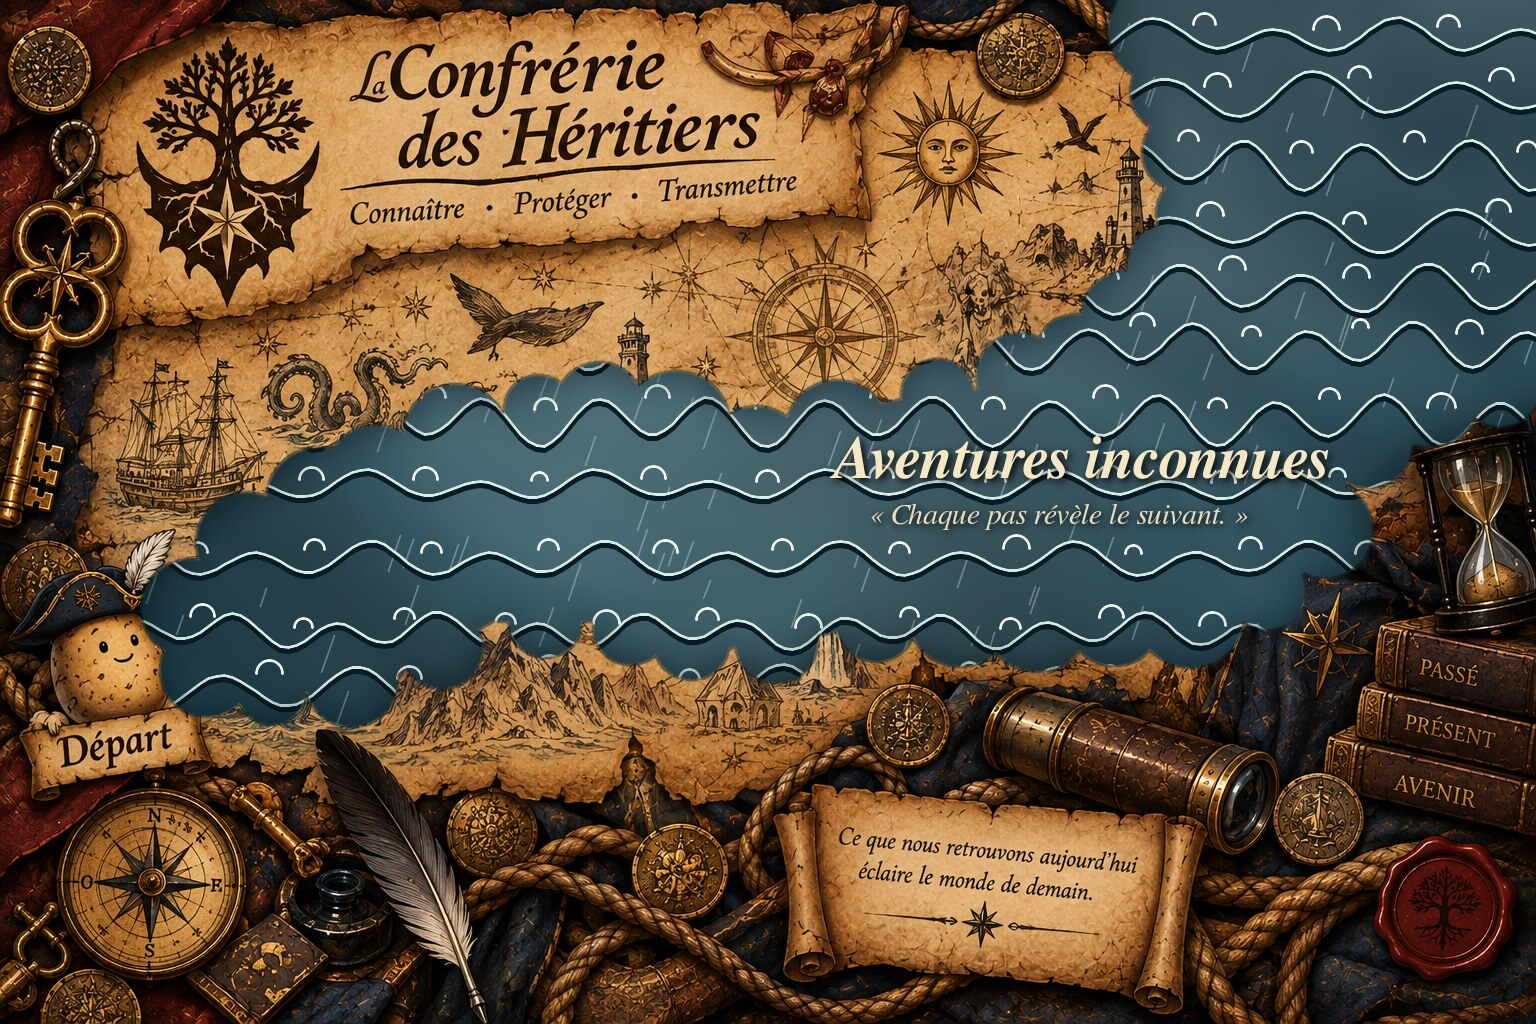
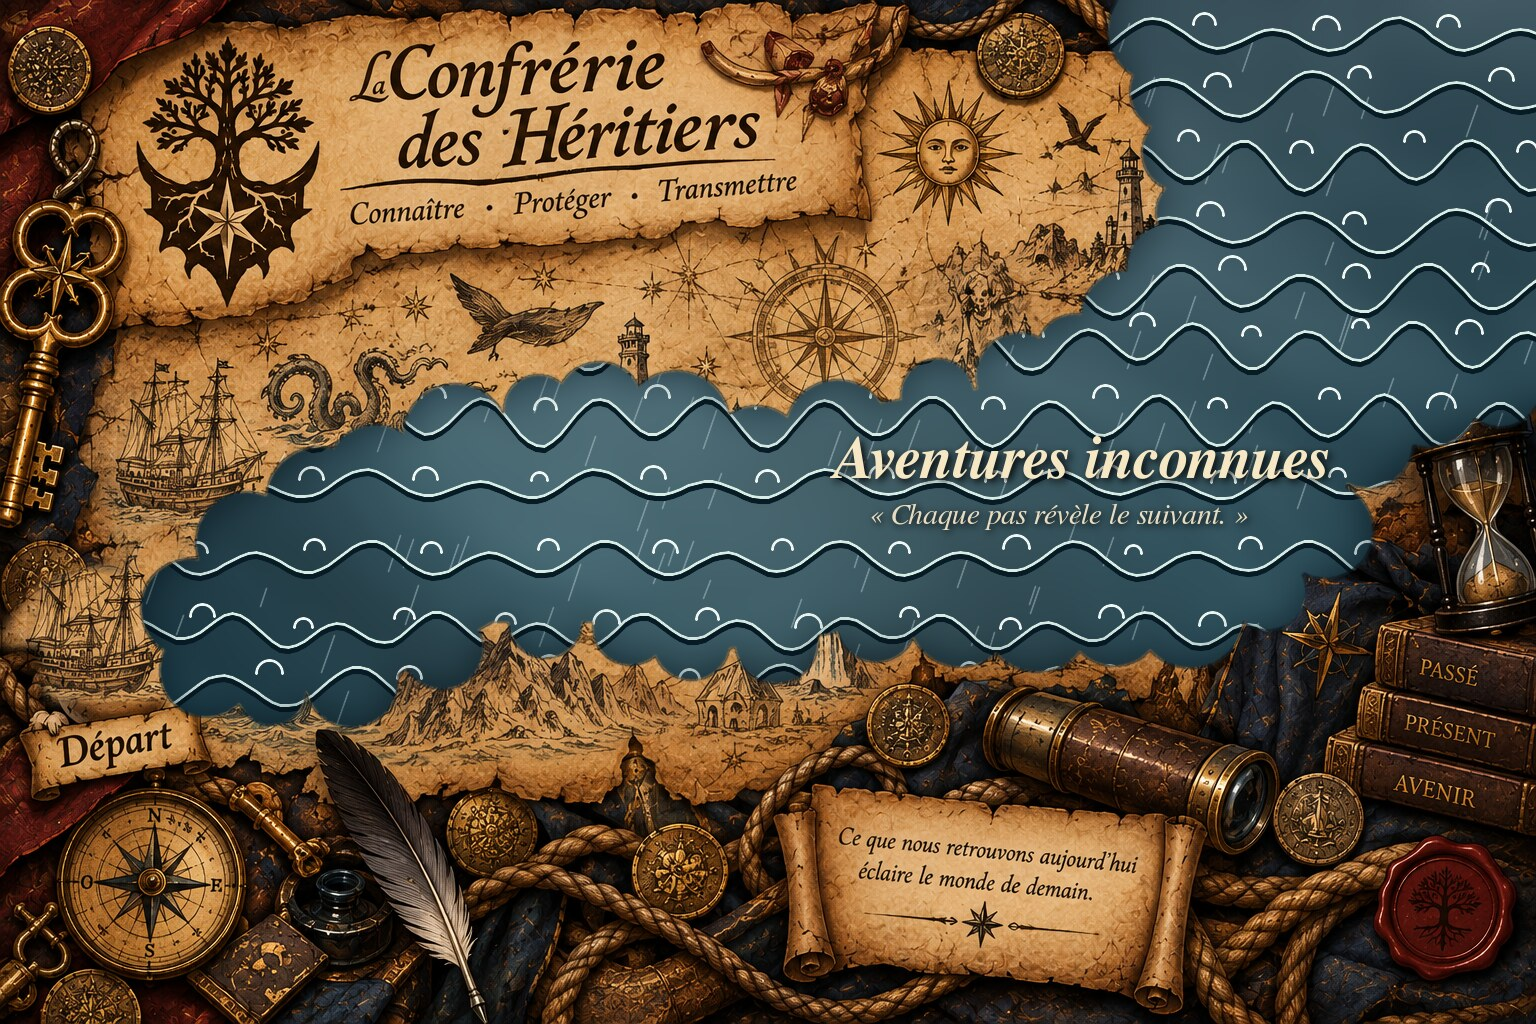
feat(quetes): la patate navigue sur le bateau de la Confrérie
- médaillon du bateau de la Confrérie avec la patate sur le pont
- le bateau part du Départ puis navigue jusqu'à la dernière quête
  dévoilée, en se balançant sur les vagues
- la patate est retirée du dessin de la carte (remplacée par la gravure
  d'un navire) pour ne pas apparaître deux fois
- le bateau passe sous les anneaux pour ne pas gêner le toucher

Claude-Session: https://claude.ai/code/session_01LK9bQxRaFjmebgi5wGVUS1

Changed region(s): [[0.0, 0.5, 0.125, 0.6875]]

diff --git a/frontend/app/(tabs)/quetes.tsx b/frontend/app/(tabs)/quetes.tsx
@@ -29,7 +29,16 @@ const FORGERON_EXPLAINED_IMAGE = require('../../quêtes/toutes les quêtes/La_Fo
 
 // Carte d'origine, sans la tempête : visible à travers la tempête autour
 // des quêtes dévoilées
-const CLEAR_MAP_IMAGE = require('../../quêtes/image de quêtes.png');
+const CLEAR_MAP_IMAGE = require('../../quêtes/carte des quêtes - sans tempete.jpg');
+
+// La patate sur le bateau de la Confrérie, dans un médaillon (310 x 260)
+const BOAT_IMAGE = require('../../assets/images/quetes/bateau-patate.png');
+const BOAT_ASPECT = 310 / 260;
+const BOAT_WIDTH = 0.13; // en fraction de la largeur de la carte
+// Port de départ du bateau, avant la première quête
+const BOAT_START = { x: 0.075, y: 0.62 };
+// Place du bateau à côté d'une quête : en bas à gauche de son cercle
+const boatSpot = (quest: { x: number; y: number }) => ({ x: quest.x - 0.04, y: quest.y + 0.14 });
 
 // Mémorise sur l'appareil les quêtes déjà dévoilées
 const seenKey = (number: number) => `quetes.vue.${number}`;
@@ -171,6 +180,67 @@ function StormHole({
   );
 }
 
+// Bateau de la patate : il navigue jusqu'à la dernière quête dévoilée et
+// se balance doucement sur les vagues
+function Boat({
+  mapWidth,
+  mapHeight,
+  spot,
+}: {
+  mapWidth: number;
+  mapHeight: number;
+  spot: { x: number; y: number };
+}) {
+  const width = mapWidth * BOAT_WIDTH;
+  const height = width / BOAT_ASPECT;
+  const targetX = spot.x * mapWidth - width / 2;
+  const targetY = spot.y * mapHeight - height / 2;
+  const position = useRef(new Animated.ValueXY({ x: targetX, y: targetY })).current;
+  const rock = useRef(new Animated.Value(0)).current;
+
+  useEffect(() => {
+    Animated.timing(position, {
+      toValue: { x: targetX, y: targetY },
+      duration: 1600,
+      useNativeDriver: true,
+    }).start();
+  }, [position, targetX, targetY]);
+
+  useEffect(() => {
+    const loop = Animated.loop(
+      Animated.sequence([
+        Animated.timing(rock, { toValue: 1, duration: 1400, useNativeDriver: true }),
+        Animated.timing(rock, { toValue: -1, duration: 1400, useNativeDriver: true }),
+      ])
+    );
+    loop.start();
+    return () => loop.stop();
+  }, [rock]);
+
+  return (
+    <Animated.View
+      pointerEvents="none"
+      testID="quest-boat"
+      style={{
+        position: 'absolute',
+        left: 0,
+        top: 0,
+        width,
+        height,
+        transform: [
+          { translateX: position.x },
+          { translateY: position.y },
+          { rotate: rock.interpolate({ inputRange: [-1, 1], outputRange: ['-4deg', '4deg'] }) },
+        ],
+      }}
+    >
+      <View pointerEvents="none" style={{ width, height }}>
+        <Image source={BOAT_IMAGE} style={{ width, height }} contentFit="contain" />
+      </View>
+    </Animated.View>
+  );
+}
+
 export default function QuetesScreen() {
   const [opened, setOpened] = useState<Quest | null>(null);
   const [mapWidth, setMapWidth] = useState(0);
@@ -193,6 +263,7 @@ export default function QuetesScreen() {
 
   const isRevealed = (quest: Quest) => Boolean(quest.revealed || seen[quest.number]);
   const revealedCount = QUESTS.filter(isRevealed).length;
+  const lastRevealed = [...QUESTS].reverse().find(isRevealed);
 
   // 1er toucher : la quête se dévoile. Ensuite : elle s'ouvre.
   const open = (quest: Quest) => {
@@ -238,6 +309,15 @@ export default function QuetesScreen() {
               />
             ))}
 
+          {/* Bateau de la patate, sous les anneaux pour ne pas gêner le toucher */}
+          {mapWidth > 0 && (
+            <Boat
+              mapWidth={mapWidth}
+              mapHeight={mapWidth / MAP_ASPECT}
+              spot={lastRevealed ? boatSpot(lastRevealed) : BOAT_START}
+            />
+          )}
+
           {/* Anneau doré sur les médaillons des quêtes disponibles */}
           {mapWidth > 0 &&
             QUESTS.map((quest) => (
@@ -282,7 +362,6 @@ export default function QuetesScreen() {
                 )}
               </Pressable>
             ))}
-
 
         </View>
 
